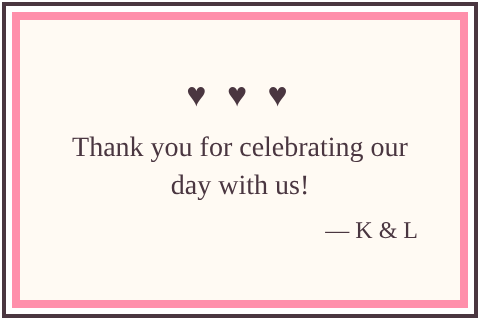
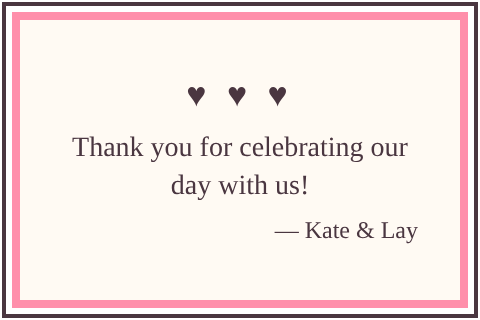
Bouquet card: center the flower; notes signed Kate & Lay (#33)
Claude-Session: https://claude.ai/code/session_019rUD3WWpTwkdMnvJSSavtX

Changed region(s): [[0.5625, 0.6875, 0.875, 0.75]]

diff --git a/js/stations/bouquet.js b/js/stations/bouquet.js
@@ -9,6 +9,30 @@
 import { el, openModal, closeModal, store, toast } from "../ui.js";
 import { drawStation, inside } from "../world.js";
 import { addItem } from "../items.js";
+import { loadImage } from "../sprites.js";
+
+// The flower is drawn in the right hand (off to the side of its 32x32 image),
+// so trim the empty space around it to show it in the middle of the card.
+function centeredFlower(src, alt) {
+  const c = el("canvas", { class: "bouquet-flower", width: 32, height: 32, "aria-label": alt });
+  loadImage(src).then((img) => {
+    if (!img) return;
+    const t = document.createElement("canvas");
+    t.width = img.width; t.height = img.height;
+    const tc = t.getContext("2d");
+    tc.drawImage(img, 0, 0);
+    const d = tc.getImageData(0, 0, t.width, t.height).data;
+    let x0 = t.width, y0 = t.height, x1 = -1, y1 = -1;
+    for (let y = 0; y < t.height; y++) for (let x = 0; x < t.width; x++) {
+      if (d[(y * t.width + x) * 4 + 3]) { x0 = Math.min(x0, x); y0 = Math.min(y0, y); x1 = Math.max(x1, x); y1 = Math.max(y1, y); }
+    }
+    if (x1 < 0) return;
+    const w = x1 - x0 + 1, h = y1 - y0 + 1, side = Math.max(w, h);
+    c.width = c.height = side;
+    c.getContext("2d").drawImage(t, x0, y0, w, h, Math.floor((side - w) / 2), Math.floor((side - h) / 2), w, h);
+  });
+  return c;
+}
 
 export const inCircle = (def, p) => inside(p, def, 0);
 const pickRandom = (list, avoid) => {
@@ -25,7 +49,7 @@ export default function bouquet(def, game) {
     const flower = bouquets.find((b) => b.image === caught.image);
     if (!flower) return;
     openModal("💐 You caught a bouquet!", el("div", { class: "bouquet-card" },
-      el("img", { class: "bouquet-flower", src: flower.image, alt: flower.name }),
+      centeredFlower(flower.image, flower.name),
       el("h2", {}, flower.name),
       el("p", { class: "bouquet-meaning" }, flower.meaning),
       caught.note ? el("img", { class: "bouquet-note", src: caught.note, alt: "A note from the couple" }) : null,

diff --git a/css/style.css b/css/style.css
@@ -233,7 +233,7 @@ body.demo #join { padding-bottom: 40px; }
 .memory-caption { font-weight: 600; min-height: 1.4em; }
 
 .bouquet-card { text-align: center; }
-.bouquet-flower { width: 128px; height: 128px; image-rendering: pixelated; }
+.bouquet-flower { display: block; margin: 0 auto; width: 128px; height: 128px; image-rendering: pixelated; }
 .bouquet-meaning { font-size: 18px; margin: 4px 0 12px; }
 .bouquet-note { width: 100%; max-width: 420px; border-radius: 10px; }
 
